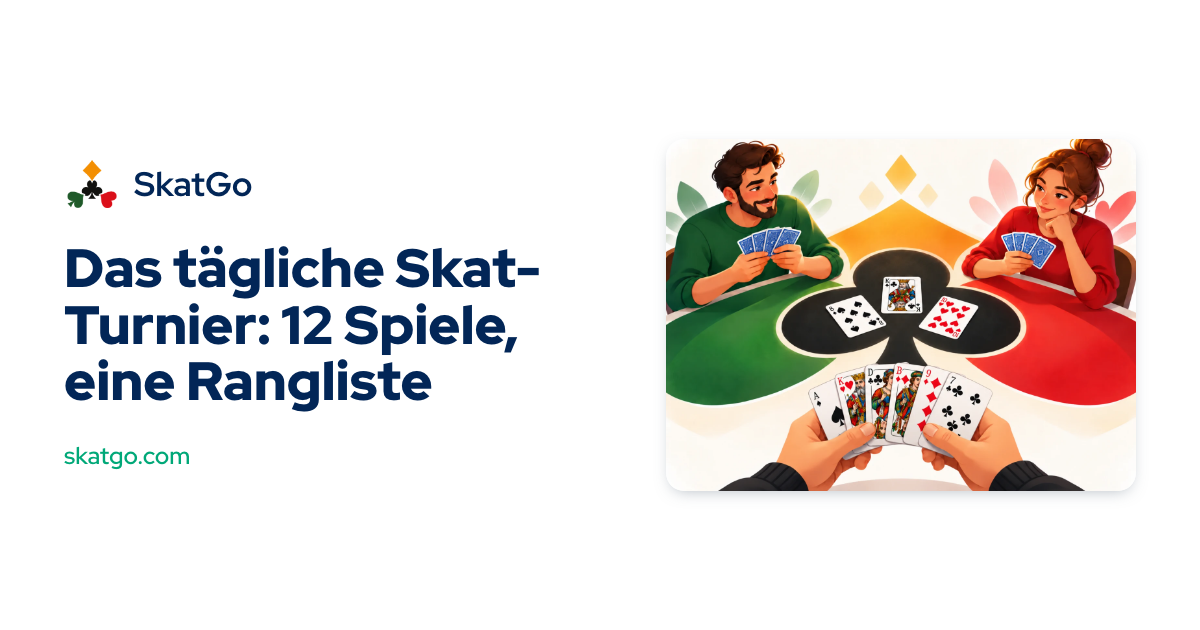
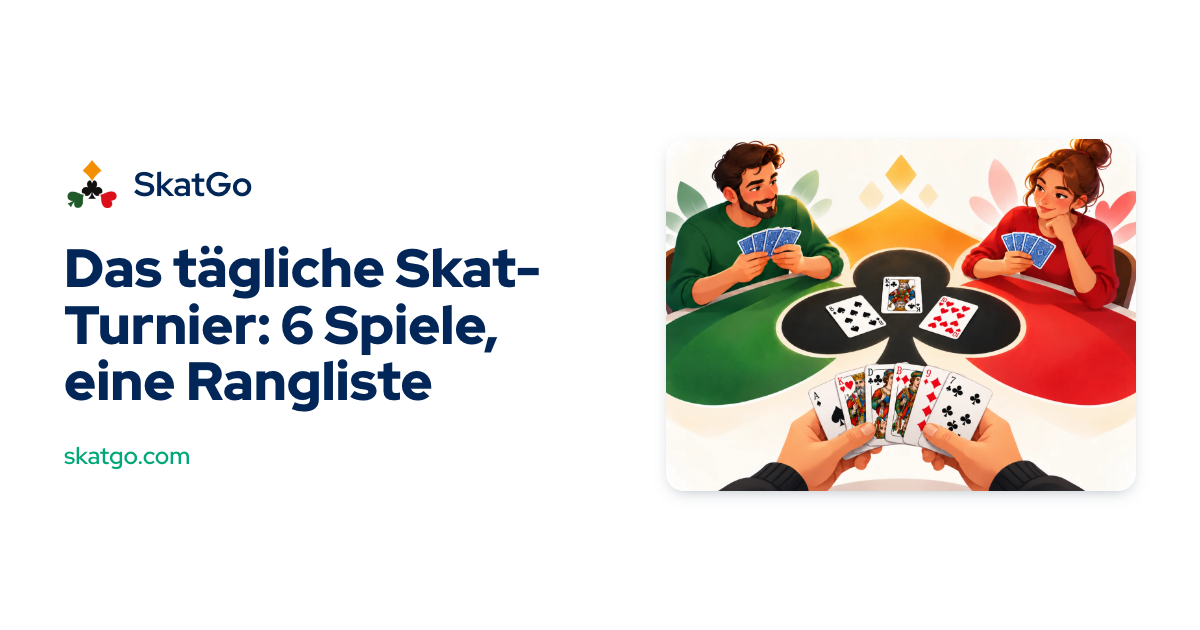
SKATGO-62 每日赛改为每天 6 副

Changed region(s): [[0.2158, 0.4825, 0.4317, 0.573]]

diff --git a/app/src/lib/skat/tournament.ts b/app/src/lib/skat/tournament.ts
@@ -7,8 +7,8 @@ import type { Card } from './cards'
 import type { Bidding, Game, Phase, Played, Seat } from './game'
 import type { Declaration } from './value'
 
-/** Deals in one day's tournament. */
-export const DAILY_DEALS = 12
+/** Deals in one day's tournament (six since SKATGO-62: a day is a short round, not an evening). */
+export const DAILY_DEALS = 6
 
 /** New deals start at midnight in this time zone. */
 export const DAILY_TIME_ZONE = 'Europe/Berlin'

diff --git a/multiplayer/src/daily.ts b/multiplayer/src/daily.ts
@@ -63,7 +63,7 @@ export function dayOf(now: number): string {
 }
 
 /** A day's deals: fresh crypto-shuffled decks; the first dealer is random, then the deal passes
- *  clockwise, so the player sits in each position four times. */
+ *  clockwise, so the player sits in each position equally often (twice in six deals). */
 export function dealDay(): DealSpec[] {
   let dealer = randomInt(3) as Seat
   return Array.from({ length: DAILY_DEALS }, () => {

diff --git a/.intentfold/tickets/SKATGO-62/handoff.md b/.intentfold/tickets/SKATGO-62/handoff.md
@@ -1,0 +1,61 @@
+# SKATGO-62 handoff
+
+## What changed
+
+- **`app/src/lib/skat/tournament.ts`**: `DAILY_DEALS = 6`, down from 12. Everything follows this one constant:
+  - the server deals the day, checks deal numbers and knows when a day is over (`multiplayer/src/daily.ts`);
+  - the titles, meta descriptions, the page text and "Spiel n von m" take it as a parameter.
+
+  No copy had 12 written into it.
+- **`multiplayer/src/daily.ts`**: a comment. The dealer still moves clockwise every deal, so the player sits in each position twice in six deals (it was four times in twelve).
+- **`app/public/og/daily-{de,en}.png`**: the preview pictures, which had "12 Spiele" / "12 deals" in them, were redrawn by SKATGO-50's `og.mjs` from the built pages' new titles. They now read "6 Spiele" / "6 deals".
+- **`.intentfold/tickets/SKATGO-62/wipe.cjs`**: the production step for cap4, run the way the human decided (grill Q1, Q2).
+  - Without `--yes` it lists every day's deal count and every day's entries.
+  - With `--yes` it deletes all `daily_entries` and all `daily_deals` in one transaction.
+  - It needs only `pg` and `DATABASE_URL`, so it runs as a Render one-off job in the multiplayer service's own image.
+
+The ticket's constraint and AC 3 were changed on the human's word ("不用考虑现有的纪录和牌局，现有纪录和牌局可以删除"); this is recorded in a ticket comment.
+
+## AC results
+
+Local web 55062, multiplayer 56062, database 57062. The fresh database was dealt by the new code: each day took about 15.5 s against about 31 s before. Headed Playwright (`tmp/daily62.mjs`) at desktop 1280×820 and phone 375×812. The day was driven through the page's API: the player bid on and played a Grand Hand every deal, so the scores are not all 0.
+
+1. **A new day shows 6 deals; 6 deals finish it and reach the board.** Met at both sizes.
+   - `/de/taeglich` reads "Das tägliche Skat-Turnier: 6 Spiele, eine Rangliste"; `/en/daily` reads "Today's Skat challenge: 6 deals, one leaderboard".
+   - Both descriptions name 6, and the preview image is the redrawn `daily-{de,en}.png`.
+   - `status.of` is 6. The day was finished after 6 deals, with no seventh.
+   - After a nickname, the player is on the board with −1596.
+2. **The AI comparison and the total cover exactly 6 deals.** Met at both sizes.
+   - `/api/daily/state` has 6 deals and 6 AI results; the total of −1596 is the sum of the six deals' scores.
+   - The result table on `/daily` has 6 rows, and its total row reads −1596.
+3. **No 12-deal day or record remains after the release.**
+   - Checked locally: the local day was made a 12-deal day with 4 finished entries. `wipe.cjs` listed them on a dry run, then deleted 4 entries and 2 days. The next request answered `day_preparing` and re-dealt today and tomorrow, 6 deals each, with no entries left.
+   - Production is checked at deploy, in cap4. The order is the human's (grill Q2):
+     1. deploy multiplayer;
+     2. run `wipe.cjs` as a dry run, then with `--yes`;
+     3. send one request to start the re-deal;
+     4. run a read-only listing, which must show only today and tomorrow, 6 deals each, and no entries;
+     5. deploy web.
+
+No page errors.
+
+**Mechanical defence**: passed in full — typecheck, build, 101 tests, bundle (23 chunks), tokens, literal grep, SSR link, `check:seo -- --built` (44 indexable, 4 noindex), `test:seo` 25/25. `npm --prefix multiplayer run check`: 21/21.
+
+## Deviations
+
+- **Production**: every daily record is deleted at release, instead of keeping the dealt 12-deal days (the ticket was amended on the human's word). No code reads a 12-deal day.
+- **Local Docker disk**: the colima VM's disk was full (40 GB, shared with other projects).
+  - To start this ticket's database I removed only this project's local acceptance databases for tickets already merged and closed (`skatgo-multiplayer-db-570{35…57, 59}` with their anonymous volumes) and SKATGO-61's local check image.
+  - I kept 57058 (ticket 58 under review), 57061 (61 not yet closed), the main checkout's 3222, and everything belonging to other projects.
+
+## Environment
+
+- Ports 55062 / 56062 / 57062. Web and multiplayer are left running for review; the local database container `skatgo-multiplayer-db-57062` is running.
+- The worktree's `.env` port lines were pointed at the ticket ports for local acceptance only. No env key added, changed or removed.
+
+## Residual
+
+- **Charter drift, not edited**:
+  - `product.md`: "every day the same 12 deals";
+  - `operations.md`: the production preparation time of "about 6–6.5 min" is for 12 deals; roughly half now.
+- **Docker disk**: the VM still has only about 1 GB free. The largest volume (13 GB) belongs to another project.
